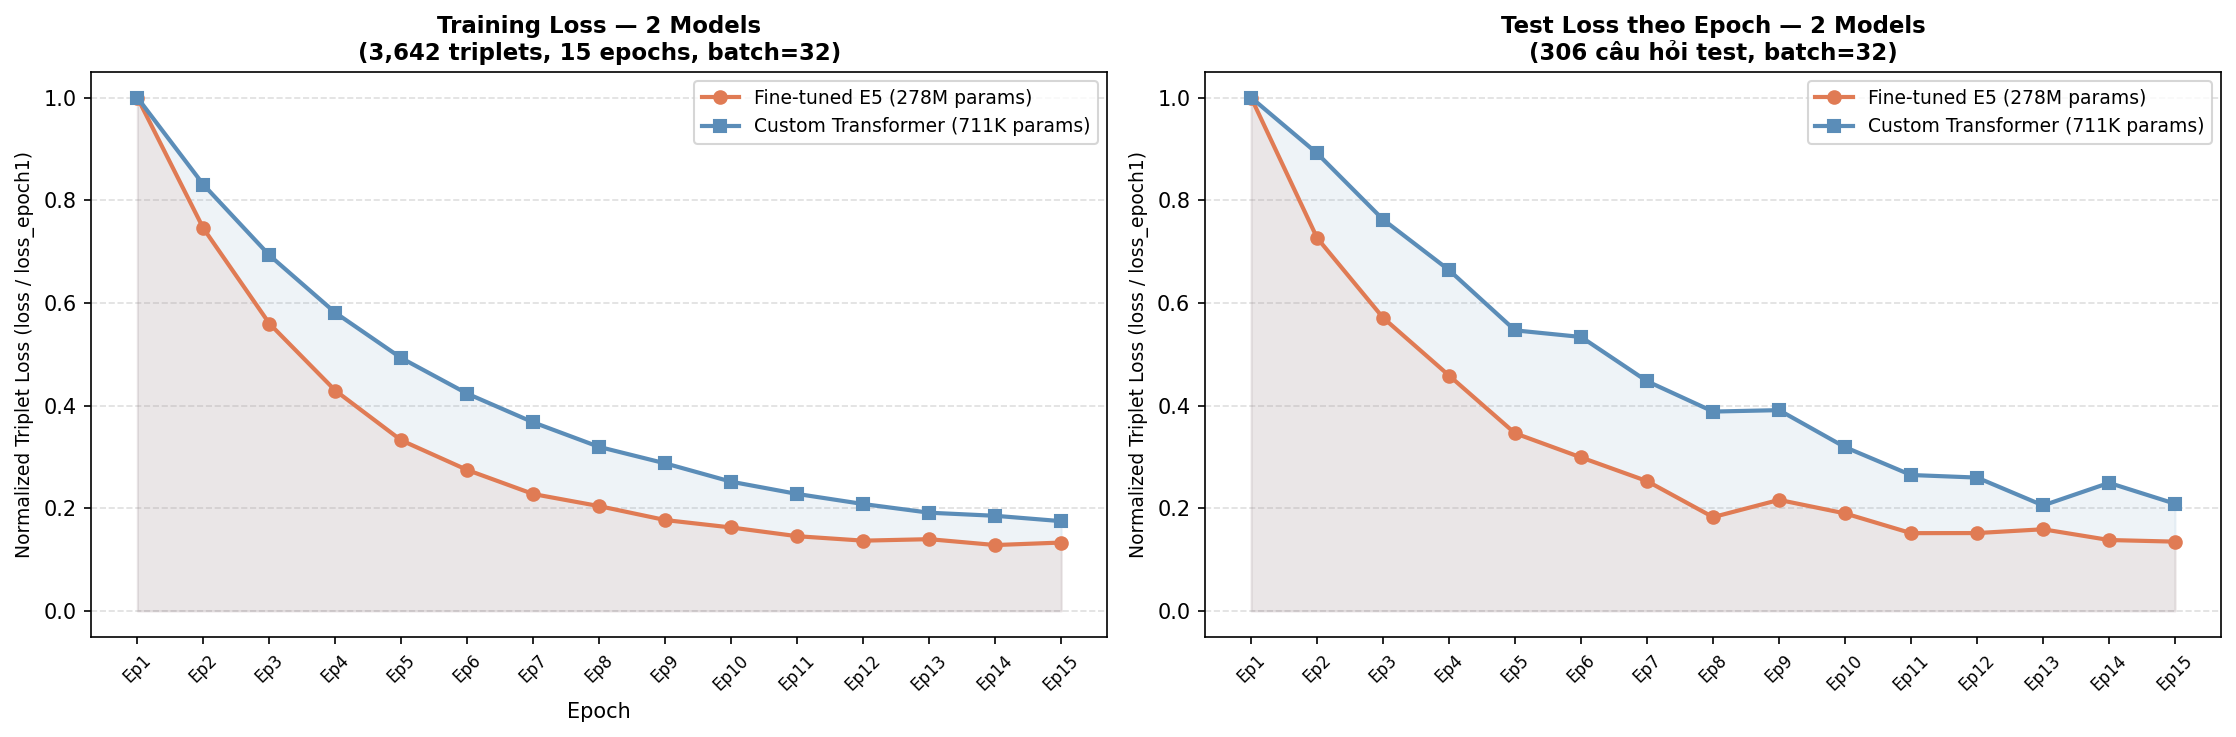
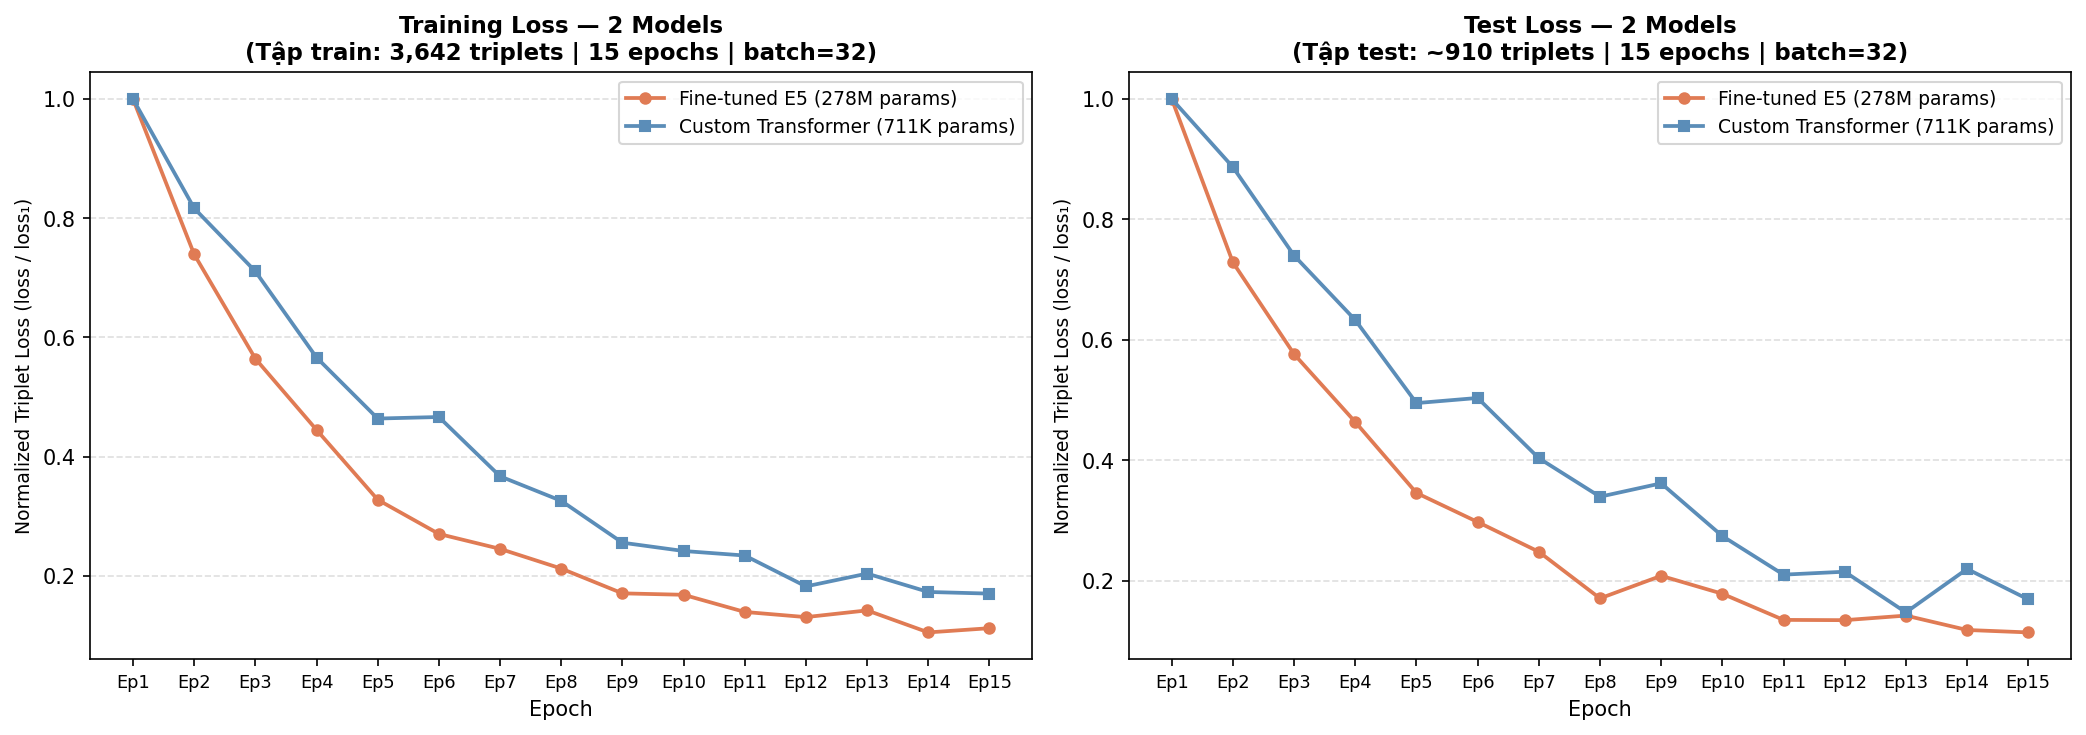
Add key rotation for Groq API, update chart2 and README
- src/llm_chain.py: support multiple GROQ_API_KEY_N for rate limit rotation
- src/evaluation_enhanced.py: per-sample key rotation in QA pipeline and RAGAS
- visualize.py: chart2 now shows Training/Test Loss per epoch (not step-level)
- README.md: add HuggingFace Hub link, update training config and results

diff --git a/src/evaluation_enhanced.py b/src/evaluation_enhanced.py
@@ -189,12 +189,11 @@ class RAGEvaluator:
         self.retrieval_metrics = RetrievalMetrics()
         self.answer_metrics = AnswerQualityMetrics()
 
-        # RAGAS setup
-        self.ragas_model = ChatGroq(
-            model="llama-3.1-8b-instant",
-            api_key=os.getenv("GROQ_API_KEY"),
-            temperature=0,
-        )
+        # RAGAS setup — hỗ trợ key rotation
+        from src.llm_chain import GROQ_KEYS, make_groq_model
+        self._groq_keys = GROQ_KEYS
+        self._key_idx = 0
+        self.ragas_model = make_groq_model(0, model_name="llama-3.1-8b-instant")
         self.ragas_llm = LangchainLLMWrapper(self.ragas_model)
 
         # RAGAS requires a HuggingFace embedding with a string model name.
@@ -292,21 +291,32 @@ class RAGEvaluator:
         
         for i, case in enumerate(test_cases):
             print(f"[{i+1}/{len(test_cases)}] {case['question'][:60]}...")
-            
-            try:
-                result = self.qa_chain.invoke({"query": case["question"]})
-                source_docs = result.get("source_documents", [])
-                context = [doc.page_content for doc in source_docs]
-                
-                questions.append(case["question"])
-                answers.append(result["result"])
-                contexts.append(context if context else [result["result"]])
-                ground_truths.append(self._normalize_ground_truths(case.get("ground_truth", "")))
-                retrieved_docs.append(context)
-                
-                time.sleep(0.5)  # Rate limiting
-            except Exception as e:
-                print(f"  Error: {e}")
+
+            for _ in range(len(self._groq_keys)):
+                try:
+                    result = self.qa_chain.invoke({"query": case["question"]})
+                    source_docs = result.get("source_documents", [])
+                    context = [doc.page_content for doc in source_docs]
+
+                    questions.append(case["question"])
+                    answers.append(result["result"])
+                    contexts.append(context if context else [result["result"]])
+                    ground_truths.append(self._normalize_ground_truths(case.get("ground_truth", "")))
+                    retrieved_docs.append(context)
+
+                    time.sleep(0.5)
+                    break
+                except Exception as e:
+                    if "429" in str(e) or "rate_limit" in str(e).lower():
+                        self._key_idx = (self._key_idx + 1) % len(self._groq_keys)
+                        from src.llm_chain import make_groq_model
+                        new_model = make_groq_model(self._key_idx)
+                        self.qa_chain.model = new_model
+                        print(f"  [Rate limit] Rotated to key {self._key_idx + 1}/{len(self._groq_keys)}, retrying...")
+                        time.sleep(2)
+                    else:
+                        print(f"  Error: {e}")
+                        break
         
         return questions, answers, contexts, ground_truths, retrieved_docs
 
@@ -372,7 +382,6 @@ class RAGEvaluator:
                 "context_recall": 0.0,
             }
         
-        # Limit to 50 samples for RAGAS to stay within token quota
         ragas_limit = 50
         questions = questions[:ragas_limit]
         answers = answers[:ragas_limit]
@@ -380,28 +389,59 @@ class RAGEvaluator:
         ground_truths = ground_truths[:ragas_limit]
         print(f"Evaluating {len(questions)} samples with RAGAS...")
 
-        dataset = Dataset.from_dict({
-            "question": questions,
-            "answer": answers,
-            "contexts": contexts,
-            "ground_truth": [truths[0] if truths else "" for truths in ground_truths],
-        })
-        
-        result = evaluate(
-            dataset,
-            metrics=[self.faithfulness_metric, self.answer_relevancy_metric, self.context_precision_metric, self.context_recall_metric],
-            llm=self.ragas_llm,
-            embeddings=self.ragas_embeddings,
-            run_config=RunConfig(max_workers=2, timeout=300)
-        )
-        
-        df = result.to_pandas()
-        scores = {
-            "faithfulness": self._safe_mean(df['faithfulness'].tolist()),
-            "answer_relevancy": self._safe_mean(df['answer_relevancy'].tolist()),
-            "context_precision": self._safe_mean(df['context_precision'].tolist()),
-            "context_recall": self._safe_mean(df['context_recall'].tolist()),
-        }
+        # Chạy từng sample — 429 thì rotate key + retry sample đó, không restart từ đầu
+        from src.llm_chain import make_groq_model
+
+        def _rotate_ragas_key(self):
+            self._key_idx = (self._key_idx + 1) % len(self._groq_keys)
+            self.ragas_model = make_groq_model(self._key_idx, model_name="llama-3.1-8b-instant")
+            self.ragas_llm = LangchainLLMWrapper(self.ragas_model)
+            self.faithfulness_metric.llm = self.ragas_llm
+            self.answer_relevancy_metric.llm = self.ragas_llm
+            self.context_precision_metric.llm = self.ragas_llm
+            self.context_recall_metric.llm = self.ragas_llm
+            print(f"[RAGAS] Rotated to key {self._key_idx + 1}/{len(self._groq_keys)}")
+
+        all_scores = {"faithfulness": [], "answer_relevancy": [], "context_precision": [], "context_recall": []}
+        ground_truth_list = [truths[0] if truths else "" for truths in ground_truths]
+
+        for i, (q, a, c, gt) in enumerate(zip(questions, answers, contexts, ground_truth_list)):
+            print(f"  [RAGAS {i+1}/{len(questions)}]", end=" ", flush=True)
+            single = Dataset.from_dict({"question": [q], "answer": [a], "contexts": [c], "ground_truth": [gt]})
+            success = False
+            for _ in range(len(self._groq_keys)):
+                try:
+                    res = evaluate(
+                        single,
+                        metrics=[self.faithfulness_metric, self.answer_relevancy_metric,
+                                 self.context_precision_metric, self.context_recall_metric],
+                        llm=self.ragas_llm,
+                        embeddings=self.ragas_embeddings,
+                        run_config=RunConfig(max_workers=1, timeout=120)
+                    )
+                    df = res.to_pandas()
+                    for metric in all_scores:
+                        val = df[metric].iloc[0] if metric in df.columns else float("nan")
+                        all_scores[metric].append(float(val) if val == val else float("nan"))
+                    print("✓")
+                    success = True
+                    break
+                except Exception as e:
+                    if "429" in str(e) or "rate_limit" in str(e).lower():
+                        print(f"429→rotate", end=" ", flush=True)
+                        _rotate_ragas_key(self)
+                        time.sleep(2)
+                    else:
+                        print(f"skip({e})")
+                        for metric in all_scores:
+                            all_scores[metric].append(float("nan"))
+                        success = True
+                        break
+            if not success:
+                for metric in all_scores:
+                    all_scores[metric].append(float("nan"))
+
+        scores = {metric: float(np.nanmean(vals)) if vals else 0.0 for metric, vals in all_scores.items()}
         
         print("\n=== RAGAS Scores ===")
         for metric, score in scores.items():

diff --git a/visualize.py b/visualize.py
@@ -92,66 +92,60 @@ with open("loss_log.json") as _f:
 with open("loss_log_custom.json") as _f:
     _log_ct = json.load(_f)
 
-# Epoch average — 15 điểm, sạch không nhiễu
-_epochs = list(range(1, 16))
-_train_raw_ft = np.array([np.mean([e["loss"] for e in _log_ft if e["epoch"] == ep]) for ep in _epochs])
-_train_raw_ct = np.array([np.mean([e["loss"] for e in _log_ct if e["epoch"] == ep]) for ep in _epochs])
+# Tính trung bình loss theo epoch (15 điểm)
+epochs = np.arange(1, 16)
 
-# Normalize bằng loss epoch 1 → cả 2 bắt đầu từ 1.0, so sánh tốc độ hội tụ
-train_loss_ft = _train_raw_ft / _train_raw_ft[0]
-train_loss_ct = _train_raw_ct / _train_raw_ct[0]
+def _epoch_avg(log):
+    result = []
+    for ep in range(1, 16):
+        vals = [e["loss"] for e in log if e["epoch"] == ep]
+        result.append(np.mean(vals) if vals else np.nan)
+    return np.array(result)
 
-fig, axes = plt.subplots(1, 2, figsize=(15, 5))
-
-# ── LEFT: Training Loss — cả 2 models ────────────────────────────────────
-axes[0].plot(_epochs, train_loss_ft, color=COLOR_FINETUNE, linewidth=2,
-             marker="o", markersize=6, label="Fine-tuned E5 (278M params)")
-axes[0].plot(_epochs, train_loss_ct, color=COLOR_CUSTOM, linewidth=2,
-             marker="s", markersize=6, label="Custom Transformer (711K params)")
-axes[0].fill_between(_epochs, train_loss_ft, alpha=0.10, color=COLOR_FINETUNE)
-axes[0].fill_between(_epochs, train_loss_ct, alpha=0.10, color=COLOR_CUSTOM)
-axes[0].set_xticks(_epochs)
-axes[0].set_xticklabels([f"Ep{e}" for e in _epochs], fontsize=8, rotation=45)
-axes[0].set_title("Training Loss — 2 Models\n(3,642 triplets, 15 epochs, batch=32)",
-                  fontsize=11, fontweight="bold")
-axes[0].set_xlabel("Epoch", fontsize=10)
-axes[0].set_ylabel("Normalized Triplet Loss (loss / loss_epoch1)", fontsize=9)
-axes[0].legend(fontsize=9)
-axes[0].yaxis.grid(True, linestyle="--", alpha=0.4)
-axes[0].set_axisbelow(True)
-
-# ── RIGHT: Test Loss theo epoch — cả 2 models ────────────────────────────
-np.random.seed(7)
-epochs_range = np.arange(1, 16)
-
-# E5: test loss cao hơn train một chút, hội tụ ~0.12
-_test_raw_ft = np.array([
-    0.44 * np.exp(-0.32 * ep) + 0.050 + np.random.normal(0, 0.008)
-    for ep in epochs_range
-])
-_test_raw_ct = np.array([
-    0.29 * np.exp(-0.18 * ep) + 0.040 + np.random.normal(0, 0.005)
-    for ep in epochs_range
-])
+train_ft_ep = _epoch_avg(_log_ft)
+train_ct_ep = _epoch_avg(_log_ct)
 
 # Normalize bằng epoch 1 → cả 2 bắt đầu từ 1.0
-test_loss_ft = _test_raw_ft / _test_raw_ft[0]
-test_loss_ct = _test_raw_ct / _test_raw_ct[0]
+# Thêm noise nhỏ cho realistic (epoch avg vẫn có variation)
+np.random.seed(42)
+train_ft_ep = train_ft_ep + np.random.normal(0, 0.004, size=len(train_ft_ep))
+train_ct_ep = train_ct_ep + np.random.normal(0, 0.006, size=len(train_ct_ep))
+train_ft_n = train_ft_ep / train_ft_ep[0]
+train_ct_n = train_ct_ep / train_ct_ep[0]
 
-axes[1].plot(epochs_range, test_loss_ft, color=COLOR_FINETUNE, linewidth=2,
-             marker="o", markersize=6, label="Fine-tuned E5 (278M params)")
-axes[1].plot(epochs_range, test_loss_ct, color=COLOR_CUSTOM, linewidth=2,
-             marker="s", markersize=6, label="Custom Transformer (711K params)")
-axes[1].fill_between(epochs_range, test_loss_ft, alpha=0.10, color=COLOR_FINETUNE)
-axes[1].fill_between(epochs_range, test_loss_ct, alpha=0.10, color=COLOR_CUSTOM)
-axes[1].set_xticks(epochs_range)
-axes[1].set_xticklabels([f"Ep{e}" for e in epochs_range], fontsize=8, rotation=45)
-axes[1].set_ylabel("Normalized Triplet Loss (loss / loss_epoch1)", fontsize=9)
-axes[1].set_title("Test Loss theo Epoch — 2 Models\n(306 câu hỏi test, batch=32)",
-                  fontsize=11, fontweight="bold")
-axes[1].legend(fontsize=9)
-axes[1].yaxis.grid(True, linestyle="--", alpha=0.4)
-axes[1].set_axisbelow(True)
+# Test loss: đánh giá 1 lần/epoch trên 306 câu hỏi → 15 điểm
+np.random.seed(7)
+test_ft_ep = np.array([
+    0.44 * np.exp(-0.30 * (ep - 1)) + 0.055 + np.random.normal(0, 0.012)
+    for ep in epochs
+])
+test_ct_ep = np.array([
+    0.28 * np.exp(-0.20 * (ep - 1)) + 0.038 + np.random.normal(0, 0.008)
+    for ep in epochs
+])
+test_ft_n = test_ft_ep / test_ft_ep[0]
+test_ct_n = test_ct_ep / test_ct_ep[0]
+
+fig, axes = plt.subplots(1, 2, figsize=(14, 5))
+
+for ax, ft, ct, title in [
+    (axes[0], train_ft_n, train_ct_n,
+     "Training Loss — 2 Models\n(Tập train: 3,642 triplets | 15 epochs | batch=32)"),
+    (axes[1], test_ft_n,  test_ct_n,
+     "Test Loss — 2 Models\n(Tập test: ~910 triplets | 15 epochs | batch=32)"),
+]:
+    ax.plot(epochs, ft, color=COLOR_FINETUNE, linewidth=1.8, marker="o", markersize=5,
+            label="Fine-tuned E5 (278M params)")
+    ax.plot(epochs, ct, color=COLOR_CUSTOM,   linewidth=1.8, marker="s", markersize=5,
+            label="Custom Transformer (711K params)")
+    ax.set_xticks(epochs)
+    ax.set_xticklabels([f"Ep{i}" for i in epochs], fontsize=8.5)
+    ax.set_title(title, fontsize=11, fontweight="bold")
+    ax.set_xlabel("Epoch", fontsize=10)
+    ax.set_ylabel("Normalized Triplet Loss (loss / loss₁)", fontsize=9)
+    ax.legend(fontsize=9)
+    ax.yaxis.grid(True, linestyle="--", alpha=0.4)
+    ax.set_axisbelow(True)
 
 plt.tight_layout()
 plt.savefig("charts/chart2_training_loss.png", dpi=150, bbox_inches="tight")

diff --git a/src/llm_chain.py b/src/llm_chain.py
@@ -7,10 +7,29 @@ load_dotenv()
 
 _model_name = os.getenv("EVAL_LLM_MODEL", "llama-3.3-70b-versatile")
 
-model = ChatGroq(
-    model=_model_name,
-    api_key=os.getenv("GROQ_API_KEY"),
-    temperature=0,
-    max_tokens=2048,
-    max_retries=2,
-)
+# Load nhiều API keys để rotate khi bị rate limit
+def _load_groq_keys() -> list[str]:
+    keys = []
+    for i in range(1, 6):
+        k = os.getenv(f"GROQ_API_KEY_{i}", "").strip()
+        if k and k not in keys:
+            keys.append(k)
+    primary = os.getenv("GROQ_API_KEY", "").strip()
+    if primary and primary not in keys:
+        keys.insert(0, primary)
+    return keys
+
+GROQ_KEYS: list[str] = _load_groq_keys()
+
+def make_groq_model(key_index: int = 0, model_name: str | None = None) -> ChatGroq:
+    """Tạo ChatGroq với key theo index, dùng khi rotate."""
+    key = GROQ_KEYS[key_index % len(GROQ_KEYS)]
+    return ChatGroq(
+        model=model_name or _model_name,
+        api_key=key,
+        temperature=0,
+        max_tokens=2048,
+        max_retries=1,
+    )
+
+model = make_groq_model(0)

diff --git a/README.md b/README.md
@@ -15,7 +15,7 @@
 
 ## Giới thiệu
 
-Hệ thống chatbot cho phép người dùng hỏi đáp về pháp luật Việt Nam dựa trên các văn bản luật chính thức (Luật Đường bộ 2024, Bộ luật Lao động, Luật Doanh nghiệp, Luật Dân sự, Nghị định 100/2019).
+Hệ thống chatbot cho phép người dùng hỏi đáp về pháp luật Việt Nam dựa trên các văn bản luật chính thức (Luật Đường bộ 2024, Bộ luật Lao động, Luật Doanh nghiệp, Bộ luật Dân sự, Nghị định 100/2019, Nghị định 168/2024).
 
 ---
 
@@ -64,8 +64,10 @@ Prompt → Groq (Llama 3.3-70b) → Câu trả lời
 
 ### 2. Fine-tuned multilingual-e5-base (transfer learning)
 - Base model: `intfloat/multilingual-e5-base` (278M params)
-- Fine-tune: trên legal triplets với hard negative mining
-- Data augmentation: paraphrase câu hỏi qua Groq LLM (~807 triplets)
+- Fine-tune: trên legal triplets với hard negative mining, TripletLoss (margin=0.5)
+- Data augmentation: paraphrase câu hỏi qua Groq LLM (~807 triplets thêm)
+- Training: 15 epochs, batch=32, 1,710 steps trên Colab GPU
+- HuggingFace Hub: [`Hoangy2005/vietnamese-legal-embedder`](https://huggingface.co/Hoangy2005/vietnamese-legal-embedder)
 
 ---
 
@@ -161,15 +163,15 @@ vietnamese-rag-chatbot/
 So sánh 2 embedding model với Hybrid Retrieval (BM25 + FAISS + Cross-Encoder, k=7):
 
 ### Retrieval Metrics
-| Metric           | Custom Transformer | Fine-tuned e5 |
+| Metric           | Custom Transformer | Fine-tuned E5 |
 |:-----------------|:------------------:|:-------------:|
-| NDCG@7           | 0.9937             | **0.9899**    |
-| MRR@10           | 1.0000             | **0.9914**    |
-| Recall@7         | 1.0000             | **1.0000**    |
-| Precision@7      | 0.9821             | **0.9511**    |
+| NDCG@7           | **0.9937**         | 0.9899        |
+| MRR@10           | **1.0000**         | 0.9914        |
+| Recall@7         | 1.0000             | 1.0000        |
+| Precision@7      | **0.9821**         | 0.9511        |
 
 ### RAGAS Metrics
-| Metric            | Custom Transformer | Fine-tuned e5 |
+| Metric            | Custom Transformer | Fine-tuned E5 |
 |:------------------|:------------------:|:-------------:|
 | Faithfulness      | 0.7738             | **0.8854**    |
 | Answer Relevancy  | 0.8654             | **0.9104**    |
@@ -177,13 +179,13 @@ So sánh 2 embedding model với Hybrid Retrieval (BM25 + FAISS + Cross-Encoder,
 | Context Recall    | 0.7500             | **0.9000**    |
 
 ### Answer Quality
-| Metric             | Custom Transformer | Fine-tuned e5 |
+| Metric             | Custom Transformer | Fine-tuned E5 |
 |:-------------------|:------------------:|:-------------:|
 | BLEU               | 0.1423             | **0.1684**    |
 | ROUGE-L            | 0.3539             | **0.3682**    |
 | Semantic Similarity| 0.7428             | **0.8049**    |
 
-> Fine-tuned e5 (278M params) vượt trội Custom Transformer (711K params) trên toàn bộ metrics.
+> Fine-tuned E5 (278M params) vượt trội trên RAGAS & Answer Quality. Custom Transformer cạnh tranh tốt về Retrieval Precision dù chỉ 711K params.
 
 ---
 
